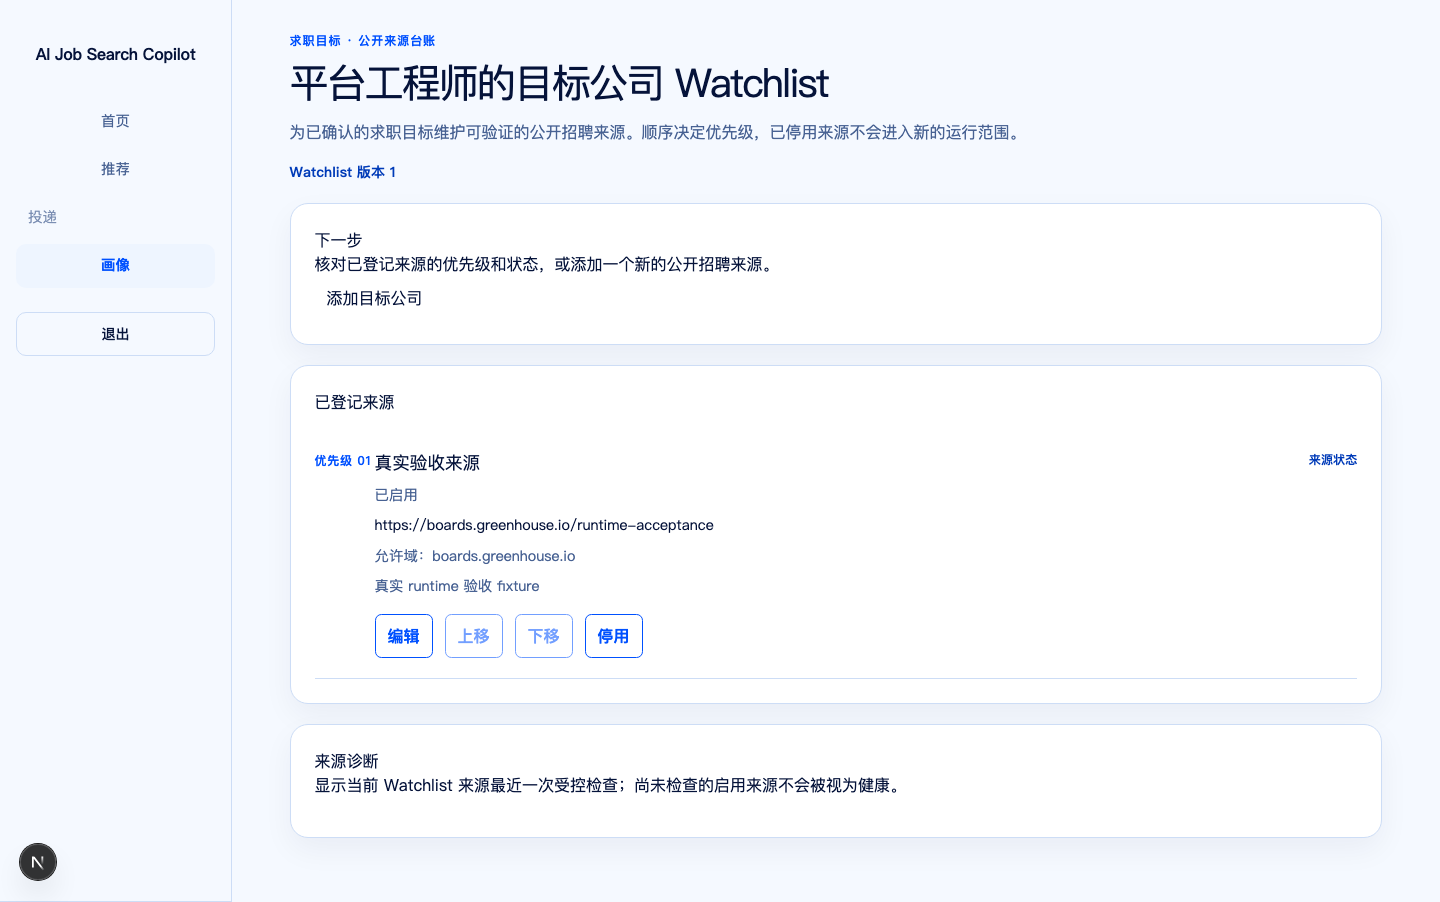
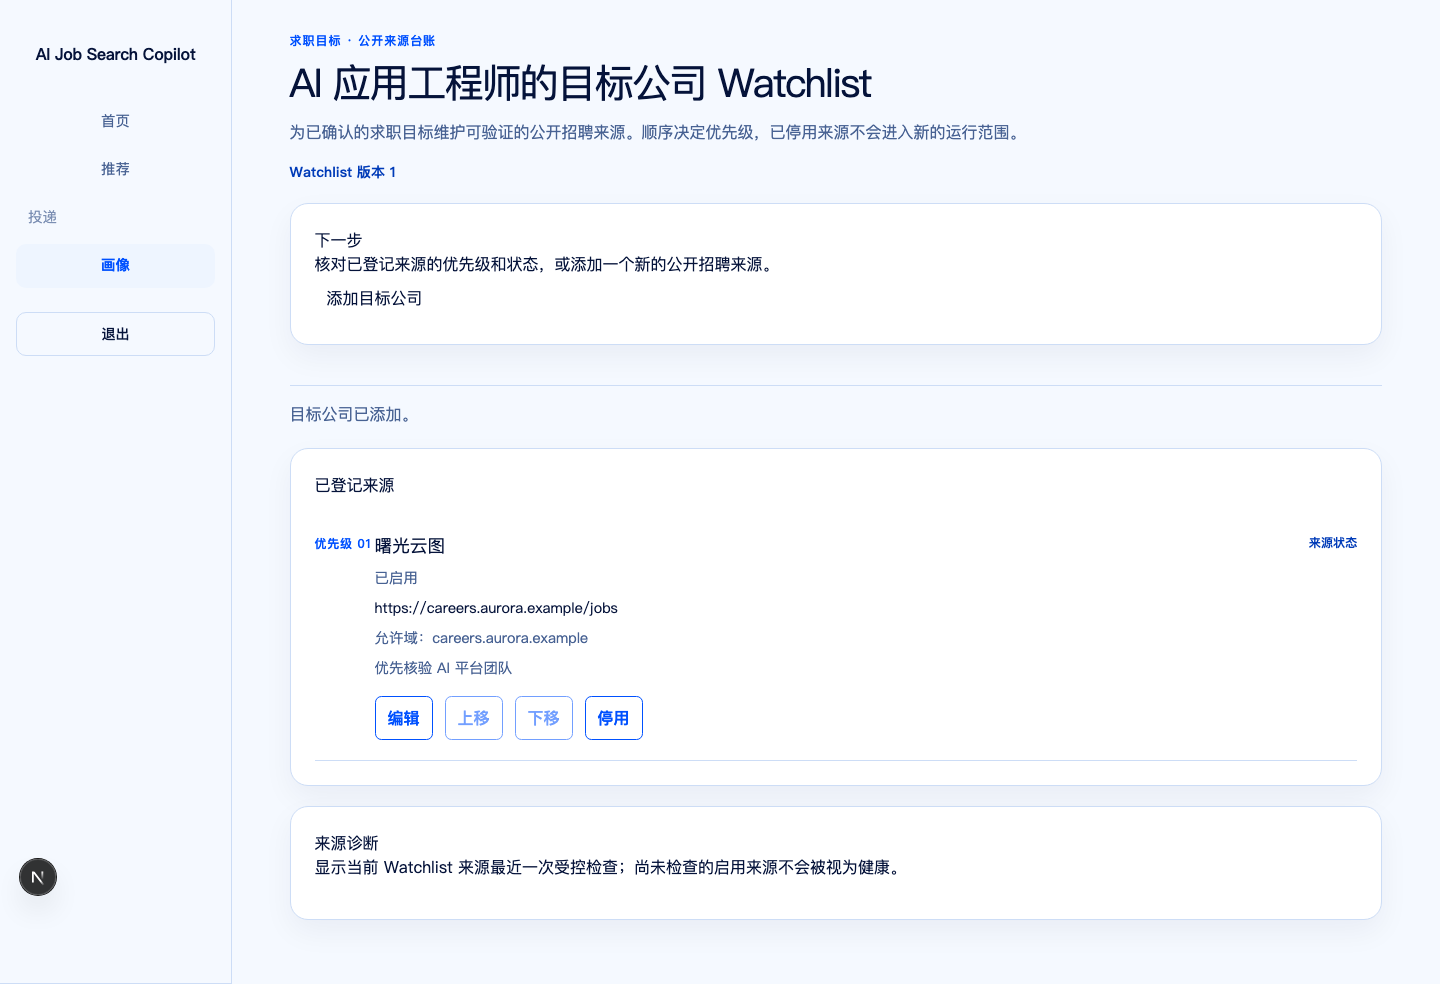
test(web): complete state evidence matrix

diff --git a/apps/web/e2e/company-watchlist.spec.ts b/apps/web/e2e/company-watchlist.spec.ts
@@ -61,6 +61,7 @@ async function addCompany(page: Page, company: string, careersUrl: string, domai
 test("目标公司 Watchlist 可添加、排序、禁用、重载并显示并发冲突", async ({ page, request }, testInfo) => {
   const { token, targetId } = await signInAtWatchlist(page, request, testInfo.project.name);
   await expect(page.getByRole("region", { name: "Watchlist 下一行动" })).toContainText("尚未登记目标公司。添加第一个公开来源后，它会成为优先级 01。");
+  await captureAfterState(page, "profile-targets-watchlist", "empty", testInfo);
   await page.getByRole("button", { name: "添加目标公司" }).click();
   await expect(page.getByText("不要填写账号、密码、Cookie、验证码或绕过登录限制的说明。")).toBeVisible();
   const addCompanyName = page.getByLabel("公司规范名称");

diff --git a/docs/qa/issue-66/README.md b/docs/qa/issue-66/README.md
@@ -16,14 +16,15 @@
 
 | 检查 | 当前结果 | 日志 |
 | --- | --- | --- |
-| 受影响 E2E：Profile Markdown / DOCX / PDF | PASS，10 passed | 本轮串行会话记录 |
-| 返工定向 E2E：运行策略 / Markdown 导入 / 推荐 | PASS，8 / 4 / 通过 | 本轮串行会话记录；均为 `--workers=1` |
-| 受影响 E2E：运行策略 / 模型诊断 | PASS，10 passed | `serial-final-b-run-policy-model.log`（原始输出，未跟踪） |
-| 受影响 E2E：目标 / Watchlist / 岗位导入 / 推荐 | PASS，22 passed | 本轮串行会话记录 |
-| 受影响 E2E：Inbox | PASS，2 passed、4 skipped（分 phase 设计） | 本轮串行会话记录 |
-| Web Vitest | PASS，95 files / 661 tests | 本轮串行会话记录 |
-| typecheck / lint / build | PASS | 本轮串行会话记录 |
-| Career Lens acceptance（未设置 capture / 显式 `after`） | PASS，10 / 10 passed；前者未写 before | 本轮串行会话记录 |
+| 受影响 E2E：Profile Markdown / DOCX / PDF | PASS，10 passed | `task-8-markdown-career-import-selector-green.log`（Markdown 4 passed）；`task-8-all-specified-e2e-final.log`（DOCX/PDF 与其余指定 spec 的完整串行输出；仅 one-click 基线缺陷失败） |
+| 返工定向 E2E：运行策略 / Markdown 导入 / 推荐 | PASS，8 / 4 / 定向 2 passed | `task-8-all-specified-e2e-final.log`；`task-8-markdown-career-import-selector-green.log`；`task-8-recommendations-selector-green.log`，均为 `--workers=1` |
+| 受影响 E2E：运行策略 / 模型诊断 | PASS，10 passed | `task-8-all-specified-e2e-final.log`（完整串行输出；仅 one-click 基线缺陷失败） |
+| 受影响 E2E：目标 / Watchlist / 岗位导入 / 推荐 | PASS，22 passed | `task-8-all-specified-e2e-final.log`；目标定向见 `task-8-job-targets-selector-green.log`，Watchlist 定向见 `rework-watchlist-e2e-green.log` |
+| 本轮 Watchlist 空态补采 E2E | PASS，4 passed | `task-8-watchlist-empty-after-20260928.log`（本轮 `tee` 保存的完整 stdout/stderr，显式 `CAREER_LENS_CAPTURE=after`） |
+| 受影响 E2E：Inbox | PASS，2 passed、4 skipped（分 phase 设计） | `task-8-workbench-inbox-mobile-fix-green.log`；完整指定 E2E 输出见 `task-8-all-specified-e2e-final.log` |
+| Web Vitest | 已通过；本次仅补采证据，未重跑未改动检查 | `web-test-recovery-final.log`（原始 recovery 输出：93 files / 651 tests） |
+| typecheck / lint / build | 已通过；本次仅补采证据，未重跑未改动检查 | `web-typecheck-recovery-final.log`、`web-lint-recovery-final.log`、`web-build-recovery-final.log` |
+| Career Lens acceptance（未设置 capture / 显式 `after`） | PASS，10 / 10 passed；前者未写 before | `rework-acceptance-after-fixture-final.log`、`rework-acceptance-after-final.log`（完整 stdout/stderr）；`task-8-state-matrix-after-20260928.log` 仅为索引摘要 |
 | 动态态 baseline before（`fa67dd6`） | PASS：临时 `issue66-before-dynamic.spec.ts` 6 passed；Inbox 4 passed / 2 skipped、source phase 2 passed / 4 skipped | 来源与哈希：`task-0-dynamic-before-origin-main.log`；原始输出：`task-0-dynamic-before-raw.log`、`task-0-workbench-inbox-before-raw.log`；复现材料：`baseline-harness/` |
 | finesse detector | PASS，P0=0；P1/P2 为既有样式提示 | `finesse-detect-recovery-final.log` |
 | 全量串行 E2E | UNVERIFIED，114 passed / 8 skipped / 2 failed | `task-8-all-specified-e2e-final.log` |
@@ -35,7 +36,7 @@
 
 ## 视觉与可访问性
 
-已逐张查看 28 张本轮 `screenshots/after/*.png`，Desktop/Mobile 均通过，关键缺项均为 0。评分格式为布局/主视觉/字体色彩/内容组件/移动=总分；每项的唯一扣分是相应长台账或说明的全页信息密度。Mobile Policy 截图只展示横滚容器的左起列；定向 Mobile Safari E2E 已验证五个表头均在可访问树、表格容器确有横滚且根页面不溢出，因此不以“裁切隐藏列”冒充通过。
+状态矩阵的 29 个命名状态视图、58 张本轮 `screenshots/after/*-{desktop-chrome,mobile-safari}.png` 均已逐张查看，Desktop/Mobile 均通过，关键缺项均为 0。评分格式为布局/主视觉/字体色彩/内容组件/移动=总分；每项的唯一扣分是相应长台账或说明的全页信息密度。Mobile Policy 截图只展示横滚容器的左起列；定向 Mobile Safari E2E 已验证五个表头均在可访问树、表格容器确有横滚且根页面不溢出，因此不以“裁切隐藏列”冒充通过。
 
 | 页面或动态态 | 五维评分 | 扣分 |
 | --- | --- | --- |
@@ -77,23 +78,23 @@
 
 ## After 状态矩阵（本轮显式运行时采图）
 
-以下每项均为同一真实 E2E fixture 在 Desktop Chrome 与 Mobile Safari 各采一张，文件名中的 `{desktop-chrome,mobile-safari}` 表示两张均已逐张目视。评分沿用上表对应页面的五维分数；本矩阵额外复核该状态的主对象、状态文案、下一行动和无根横向溢出。加载态不以静态 mock 伪造：相关组件的真实轮询/禁用/aria-live 行为由对应 E2E 断言覆盖，无法在稳定截图时保留的瞬时加载态明确记为“动态断言”。
+下表逐一闭合十路由及 Inbox、首次推荐旅程、导入审核、推荐校准四个任务态的空、内容和关键失败证据。每个文件模式的 `{desktop-chrome,mobile-safari}` 都展开为同一真实 E2E fixture 在两个视口采得的两张图，且已逐张目视；同一页面的父路由与任务子态可共用该真实截图时会在“理由”中明确说明，绝不复制或以静态 mock 冒充状态。评分沿用上表对应页面的五维分数，并额外复核主对象、状态文案、下一行动和无根横向溢出。
 
-| 路由/任务态 | 真实状态与 fixture | 截图（双视口） | 状态检查与评分 |
-| --- | --- | --- | --- |
-| `/` 营销 | 静态落地内容 | `marketing-empty-{desktop-chrome,mobile-safari}.png` | 无账户异步状态，失败/加载 N/A；98，关键缺项 0 |
-| `/login` | 静态登录与 returnTo | `login-empty-{desktop-chrome,mobile-safari}.png` | 无远端读取失败态；98，关键缺项 0 |
-| `/home` | 空账户 | `home-empty-{desktop-chrome,mobile-safari}.png` | 空摘要、首要建目标行动；96，关键缺项 0 |
-| Inbox | 待确认候选事实 / 离线动作失败 | `home-inbox-{content,failure}-{desktop-chrome,mobile-safari}.png` | 真实 API fixture，失败后可重试且恢复以轮询确认；96，关键缺项 0 |
-| 首次旅程 | 独立已准备账户内容 / 物理发现失败 | `home-first-recommendation-journey-{content,failure}-{desktop-chrome,mobile-safari}.png` | 真实目标/来源 fixture 的主步骤与失败后待办同时可读；96，关键缺项 0 |
-| `/recommendations` | 无目标空态 / 真推荐内容 / 校准版本冲突 | `recommendations-{empty,content,failure}-{desktop-chrome,mobile-safari}.png` | 证据 region、过期建议与“重新计算”下一行动可读；96，关键缺项 0 |
-| 推荐校准 | Inbox 跳转后的校准审核内容 | `recommendations-calibration-content-{desktop-chrome,mobile-safari}.png` | 独立 Inbox fixture；96，关键缺项 0 |
-| `/profile` | 空画像 | `profile-empty-{desktop-chrome,mobile-safari}.png` | 收起的编辑表单不抢占主对象；96，关键缺项 0 |
-| 导入审核 | 已解析候选事实 / 版本冲突 | `profile-import-review-{content,failure}-{desktop-chrome,mobile-safari}.png` | 当前任务状态持续 aria-live，刷新后解析完成仍在；96，关键缺项 0 |
-| `/profile/targets` | 空态 / 已保存目标 / 版本冲突 | `profile-targets-{empty,content,failure}-{desktop-chrome,mobile-safari}.png` | 目标与下一维护行动可读；97，关键缺项 0 |
-| Watchlist | 已添加来源 / 并发冲突 | `profile-targets-watchlist-{content,failure}-{desktop-chrome,mobile-safari}.png` | 44px 名称、URL、备注和保存控件由语义定位 E2E 复核；97，关键缺项 0 |
-| `/jobs/import` | 空态 / 完成岗位 / 导入失败 | `jobs-import-{empty,content,failure}-{desktop-chrome,mobile-safari}.png` | 真实三模式导入、轮询和失败恢复；97，关键缺项 0 |
-| `/profile/run-policy` | 空态 / 已保存策略 / 本地硬上限校验 | `profile-run-policy-{empty,content,failure}-{desktop-chrome,mobile-safari}.png` | Mobile 保留五列 DOM，局部横滚，不让根页面溢出；96，关键缺项 0 |
-| `/profile/model-connection` | 空态 / available / authentication_failed | `profile-model-connection-{empty,content,failure}-{desktop-chrome,mobile-safari}.png` | 真实受控诊断 fixture；checking/temporary 为动态 E2E 断言；97，关键缺项 0 |
+| 路由/任务态 | 空态（双视口文件） | 内容态（双视口文件） | 关键失败态（双视口文件） | 真实 fixture、理由与评分 |
+| --- | --- | --- | --- | --- |
+| `/` 营销 | N/A | `marketing-empty-{desktop-chrome,mobile-safari}.png`（文件名沿用旧 capture 命名，画面为静态落地内容） | N/A | 没有账户读取、异步请求或可失败的营销数据源；故不存在产品意义的空/失败态。98，关键缺项 0。 |
+| `/login` | N/A | `login-empty-{desktop-chrome,mobile-safari}.png`（静态登录/returnTo 内容） | N/A | Beta 登录边界未读取远端身份数据，失败由提交登录后的恢复路径处理，不能伪造静态失败图。98，关键缺项 0。 |
+| `/home` | `home-empty-{desktop-chrome,mobile-safari}.png` | `home-inbox-content-{desktop-chrome,mobile-safari}.png`、`home-first-recommendation-journey-content-{desktop-chrome,mobile-safari}.png` | `home-inbox-failure-{desktop-chrome,mobile-safari}.png`、`home-first-recommendation-journey-failure-{desktop-chrome,mobile-safari}.png` | 同一路由的两项真实动态 fixture 分别覆盖待确认事实和首次旅程；空账户图覆盖无任务队列。96，关键缺项 0。 |
+| `/recommendations` | `recommendations-empty-{desktop-chrome,mobile-safari}.png` | `recommendations-content-{desktop-chrome,mobile-safari}.png`、`recommendations-calibration-content-{desktop-chrome,mobile-safari}.png` | `recommendations-failure-{desktop-chrome,mobile-safari}.png` | 无目标、真实推荐列表和真实校准审核均在该路由；过期校准规则冲突给出重新计算行动。96，关键缺项 0。 |
+| `/profile` | `profile-empty-{desktop-chrome,mobile-safari}.png` | `profile-import-review-content-{desktop-chrome,mobile-safari}.png` | `profile-import-review-failure-{desktop-chrome,mobile-safari}.png` | 导入审核在 `/profile#candidate-facts` 真实呈现，是该父路由的内容/并发失败子态；空画像图没有当前导入。96，关键缺项 0。 |
+| `/profile/targets` | `profile-targets-empty-{desktop-chrome,mobile-safari}.png` | `profile-targets-content-{desktop-chrome,mobile-safari}.png` | `profile-targets-failure-{desktop-chrome,mobile-safari}.png` | 真实保存主目标及版本冲突 fixture。97，关键缺项 0。 |
+| `/profile/targets/:id/watchlist` | `profile-targets-watchlist-empty-{desktop-chrome,mobile-safari}.png` | `profile-targets-watchlist-content-{desktop-chrome,mobile-safari}.png` | `profile-targets-watchlist-failure-{desktop-chrome,mobile-safari}.png` | 本轮由既有 Watchlist E2E 在“尚未登记目标公司”断言后补采空台账；随后同一真实 API fixture 添加来源并触发版本冲突。97，关键缺项 0。 |
+| `/jobs/import` | `jobs-import-empty-{desktop-chrome,mobile-safari}.png` | `jobs-import-content-{desktop-chrome,mobile-safari}.png` | `jobs-import-failure-{desktop-chrome,mobile-safari}.png` | 三种真实导入入口、完成岗位和规范化失败恢复。97，关键缺项 0。 |
+| `/profile/run-policy` | `profile-run-policy-empty-{desktop-chrome,mobile-safari}.png` | `profile-run-policy-content-{desktop-chrome,mobile-safari}.png` | `profile-run-policy-failure-{desktop-chrome,mobile-safari}.png` | 无保存策略、保存后台账及本地硬上限校验；Mobile 的五列仍在 DOM 且只在容器局部横滚。96，关键缺项 0。 |
+| `/profile/model-connection` | `profile-model-connection-empty-{desktop-chrome,mobile-safari}.png` | `profile-model-connection-content-{desktop-chrome,mobile-safari}.png` | `profile-model-connection-failure-{desktop-chrome,mobile-safari}.png` | 真实受控诊断的 available/authentication_failed fixture；checking/temporary 是不可稳定截留的真实轮询动态断言，而非 mock 截图。97，关键缺项 0。 |
+| Inbox 任务态（`/home`） | `home-empty-{desktop-chrome,mobile-safari}.png` | `home-inbox-content-{desktop-chrome,mobile-safari}.png` | `home-inbox-failure-{desktop-chrome,mobile-safari}.png` | 无候选事实时队列不渲染；独立导入审核 fixture 产生 Inbox，离线动作失败后可重试并由轮询确认恢复。96，关键缺项 0。 |
+| 首次推荐旅程（`/home`） | `home-empty-{desktop-chrome,mobile-safari}.png` | `home-first-recommendation-journey-content-{desktop-chrome,mobile-safari}.png` | `home-first-recommendation-journey-failure-{desktop-chrome,mobile-safari}.png` | 空账户尚未满足目标/来源前置条件；独立准备账户显示旅程，物理发现失败图保留下一待办。96，关键缺项 0。 |
+| 导入审核（`/profile#candidate-facts`） | `profile-empty-{desktop-chrome,mobile-safari}.png` | `profile-import-review-content-{desktop-chrome,mobile-safari}.png` | `profile-import-review-failure-{desktop-chrome,mobile-safari}.png` | 无当前/最近导入时为空；解析完成候选事实和并发版本冲突均为真实职业资料导入链路，任务状态持续 `aria-live`。96，关键缺项 0。 |
+| 推荐校准（`/recommendations`） | `recommendations-content-{desktop-chrome,mobile-safari}.png` | `recommendations-calibration-content-{desktop-chrome,mobile-safari}.png` | `recommendations-failure-{desktop-chrome,mobile-safari}.png` | 普通真实推荐列表即“无待审校准提案”的空子态；Inbox 跳转产生审核提案，过期规则冲突是该操作的关键失败并给出重新计算。96，关键缺项 0。 |
 
 本轮新增/恢复的行为断言首先作为回归测试落地：导入编辑区的真实 `Tab` 顺序到文件输入、Watchlist 的公司名/招聘入口/允许域/来源备注与保存按钮均为 >=44px、运行策略本地超硬上限错误、推荐过期校准错误、职业资料并发冲突以及 Inbox 离线恢复。前两项为既有实现上首次运行即 GREEN 的断言恢复，未伪造 RED；首次推荐旅程曾因旧 E2E 直接操作已折叠文件控件而 RED，改为先点击“开始导入职业资料”后 GREEN。所有采图均只在 `CAREER_LENS_CAPTURE=after` 时写入 after；未设置变量的 acceptance 10 passed，且 before 路径前后无差异。
